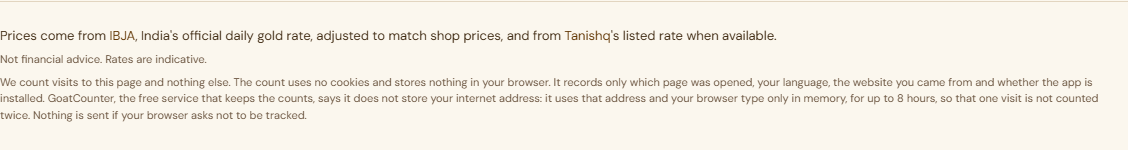
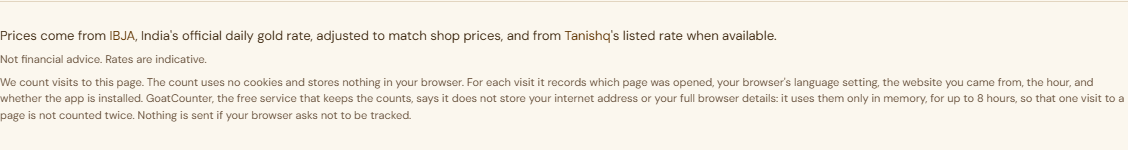
fix(analytics): note wording per verifier (language setting, hour, full browser details; installed-app events in SECURITY)

Changed region(s): [[0.0, 0.6133, 1.0, 0.6933], [0.1241, 0.5067, 0.9929, 0.5867], [0.0, 0.7467, 0.3723, 0.8]]

diff --git a/i18n.js b/i18n.js
@@ -200,7 +200,7 @@ const STRINGS = {
     footerMuted: "Not financial advice. Rates are indicative.",
     // Shown only while visit counting is on (analytics.js adds it to the footer). English only: Hindi falls back to this
     // through t() (no Hindi key on purpose; do not machine-translate it).
-    privacyNote: "We count visits to this page and nothing else. The count uses no cookies and stores nothing in your browser. It records only which page was opened, your language, the website you came from and whether the app is installed. GoatCounter, the free service that keeps the counts, says it does not store your internet address: it uses that address and your browser type only in memory, for up to 8 hours, so that one visit is not counted twice. Nothing is sent if your browser asks not to be tracked.",
+    privacyNote: "We count visits to this page. The count uses no cookies and stores nothing in your browser. For each visit it records which page was opened, your browser's language setting, the website you came from, the hour, and whether the app is installed. GoatCounter, the free service that keeps the counts, says it does not store your internet address or your full browser details: it uses them only in memory, for up to 8 hours, so that one visit to a page is not counted twice. Nothing is sent if your browser asks not to be tracked.",
     bottomNavAriaLabel: "Page sections",
     navHome: "Home",
     navTrend: "Trend",

diff --git a/tests/test_feature_flags.js b/tests/test_feature_flags.js
@@ -28,7 +28,7 @@ function loadFlags({ hostname = "gaurav-gandhi-2411.github.io", search = "" } = 
 
 // Flags that were deliberately switched on and shipped on. Adding a name here is a conscious,
 // reviewed act: every other flag must still default off.
-const SHIPPED_ON = new Set(["analytics"]); // visit counting, GG created the GoatCounter site 2026-10-08
+const SHIPPED_ON = new Set(["analytics"]); // visit counting, switched on 2026-10-09
 
 test("FEATURE_FLAGS: every declared flag defaults to false unless it is on the shipped-on list", () => {
   const ctx = loadFlags();

diff --git a/SECURITY.md b/SECURITY.md
@@ -25,7 +25,7 @@ This project scrapes a public webpage, stores JSON data in a repo, and serves a 
 | `scraper/scrape.js` | Runs only in GitHub Actions; no user input |
 | `ml/*.py` | Reads local JSON files; no network calls except Groq API |
 | `data/*.json` | Public read-only JSON; no authentication |
-| PWA frontend | Static HTML/JS; no backend, no cookies, no auth. Visit counting: one image request to `gold-rate-tracker.goatcounter.com` (page path, language, referring site origin; no cookie, nothing stored in the browser; skipped on Do Not Track / Global Privacy Control) |
+| PWA frontend | Static HTML/JS; no backend, no cookies, no auth. Visit counting: one image request to `gold-rate-tracker.goatcounter.com` (page path, language, referring site origin, whether it runs as an installed app; no cookie, nothing stored in the browser; skipped on Do Not Track / Global Privacy Control) |
 
 Supply-chain risks (compromised npm/pip packages) are mitigated by pinning versions in `scraper/package-lock.json` and `ml/requirements.txt`, and by Dependabot alerts.
 
